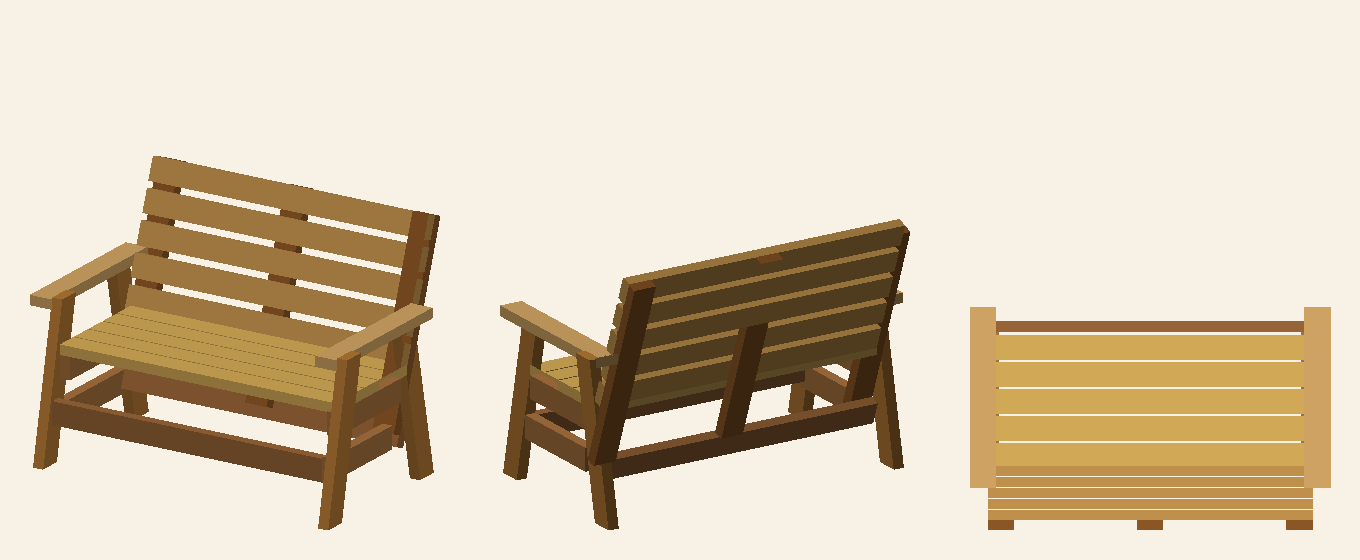
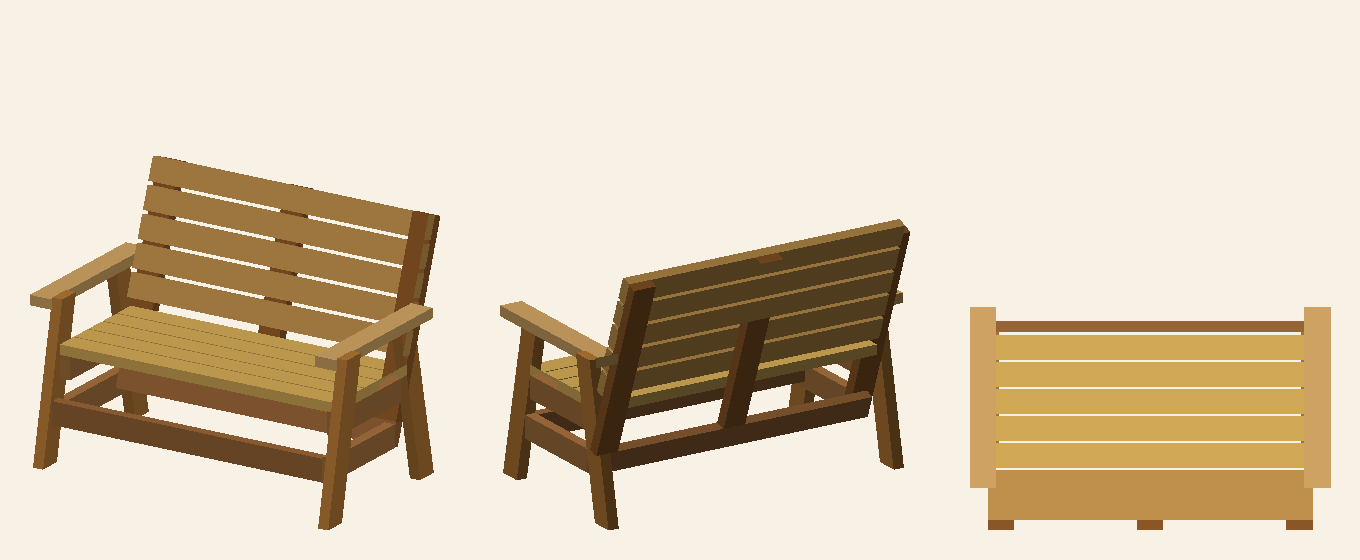
Fix rear cross beam: in line with posts (they land on its top) and butted by the bottom rails so it actually ties them; 0 interferences. Refresh plan cut list + renders

diff --git a/index.html b/index.html
@@ -257,7 +257,8 @@ function strut(x, z0,y0, z1,y1, xThick, profW){
 // back legs and extended straight down to the (canted) rear cross beam.
 const BACKREST_X = INNER_X - W4/2;            // 20.75 — 3.5" wide post, outer face on leg inner face
 const SEAT_REF_Y = 14;                        // backrest line crosses the back leg here (bolted)
-const REAR_BEAM_Y = BOT_RAIL_CY;              // posts run straight down to the beam at rail height
+const BEAM_Y = BOT_RAIL_CY;                   // rear beam centre height (= bottom-rail height)
+const REAR_BEAM_Y = BEAM_Y + (W4/2)*Math.cos(RCL); // post bottoms land flush on the beam's top face
 const backrest = (()=>{
   const ref = backLegZ(SEAT_REF_Y);
   const zAt = (y)=> ref - (y - SEAT_REF_Y)*Math.tan(RCL);
@@ -336,8 +337,8 @@ for(const [side,sx,rx] of [['left',-LEG_X,-RAIL_X],['right',LEG_X,RAIL_X]]){
   const srF = frontLegZ(SEAT_RAIL_CY), srB = postFrontZ(SEAT_RAIL_CY - W4/2);
   add('seatrail-'+side,'Seat rail ('+side+')','2x4','2×4 · '+(srF-srB).toFixed(1)+'″',
       [TH, W4, srF-srB], [rx, SEAT_RAIL_CY, (srF+srB)/2]);
-  // Bottom rail (2x4 on edge) ≈6″ off the floor; rear end butts the backrest post
-  const brF = frontLegZ(BOT_RAIL_CY), brB = postFrontZ(BOT_RAIL_CY - W4/2);
+  // Bottom rail (2x4 on edge) ≈6″ off the floor; rear end butts the rear cross beam
+  const brF = frontLegZ(BOT_RAIL_CY), brB = backrestZ(BEAM_Y) + (TH/2)*Math.cos(RCL);
   add('bottomrail-'+side,'Bottom rail ('+side+')','2x4','2×4 · '+(brF-brB).toFixed(1)+'″',
       [TH, W4, brF-brB], [rx, BOT_RAIL_CY, (brF+brB)/2]);
 }
@@ -371,10 +372,10 @@ for(const [side,sx,rx] of [['left',-LEG_X,-RAIL_X],['right',LEG_X,RAIL_X]]){
 // ---- Two bottom cross beams (front + rear) joining the A-frames ----
 add('beam-front','Bottom cross beam – front','2x4','2×4 · 45″',
     [BEAM_LEN, W4, TH], [0, BOT_RAIL_CY, frontLegZ(BOT_RAIL_CY)]);
-// Rear beam: attached to the bottom RAILS (pulled toward centre, off the back legs) and
-// CANTED to the recline so its 3.5" face meets the three posts' 3.5" faces flush.
-add('beam-rear','Bottom cross beam – rear (canted, receives backrest posts)','2x4','2×4 · 45″',
-    [BEAM_LEN, W4, TH], [0, backrest.y0 - TH*RCL_N.y, backrest.z0 - TH*RCL_N.z], -RCL);
+// Rear beam: in line with the posts (their bottom ends land flush on its top), CANTED to
+// the recline, and butted by the two bottom rails (so it ties them together).
+add('beam-rear','Bottom cross beam – rear (canted; receives the posts, butts the bottom rails)','2x4','2×4 · 45″',
+    [BEAM_LEN, W4, TH], [0, BEAM_Y, backrestZ(BEAM_Y)], -RCL);
 
 /* =====================================================================
    THREE.JS SCENE

diff --git a/projects/2x4-garden-bench.html b/projects/2x4-garden-bench.html
@@ -87,10 +87,10 @@
       <tbody>
         <tr><td class="num">A</td><td>Front leg</td><td class="num">2</td><td class="num">24″</td><td>Both ends <strong>12° bevel</strong> — foot sits flat on floor, top level under the armrest.</td></tr>
         <tr><td class="num">B</td><td>Back leg</td><td class="num">2</td><td class="num">24″</td><td>Both ends <strong>12° bevel</strong> (mirror of the front leg).</td></tr>
-        <tr><td class="num">C</td><td>Backrest post</td><td class="num">3</td><td class="num">30⅞″</td><td>Reclined ~20°; <strong>bottom cut ~20°</strong> to land flat on the rear beam. (L / centre / R)</td></tr>
+        <tr><td class="num">C</td><td>Backrest post</td><td class="num">3</td><td class="num">29⅛″</td><td>Reclined ~20°; <strong>bottom cut ~20°</strong> to land flat on the rear beam. (L / centre / R)</td></tr>
         <tr><td class="num">D</td><td>Armrest</td><td class="num">2</td><td class="num">25⅛″</td><td>Laid flat. Round/ease the front corners.</td></tr>
         <tr><td class="num">E</td><td>Seat rail</td><td class="num">2</td><td class="num">16¾″</td><td>2×4 on edge. <strong>Rear end cut ~20°</strong> to butt the backrest post.</td></tr>
-        <tr><td class="num">F</td><td>Bottom rail</td><td class="num">2</td><td class="num">15¾″</td><td>2×4 on edge, ~6″ off the floor. <strong>Rear end cut ~20°</strong> to butt the post.</td></tr>
+        <tr><td class="num">F</td><td>Bottom rail</td><td class="num">2</td><td class="num">16⅜″</td><td>2×4 on edge, ~6″ off the floor. <strong>Rear end cut ~20°</strong> to butt the rear cross beam.</td></tr>
         <tr><td class="num">G</td><td>Seat slat</td><td class="num">5</td><td class="num">45″</td><td>Square cuts. Tuck between the legs (no corner notches).</td></tr>
         <tr><td class="num">H</td><td>Back slat</td><td class="num">5</td><td class="num">45″</td><td>Square cuts.</td></tr>
         <tr><td class="num">J</td><td>Front cross beam</td><td class="num">1</td><td class="num">45″</td><td>2×4 on edge, between the front legs.</td></tr>
